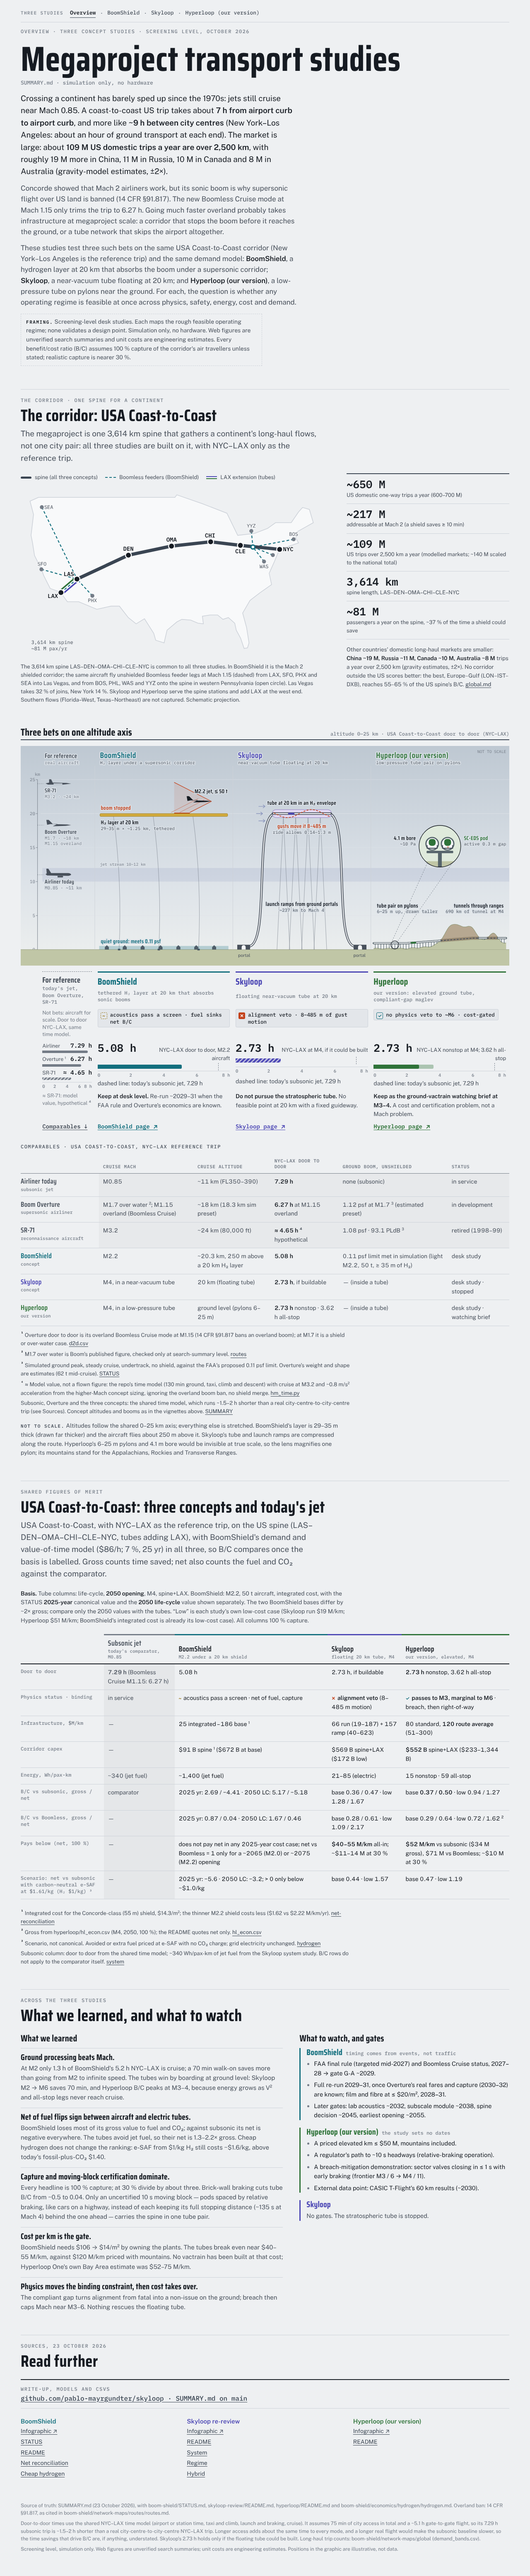
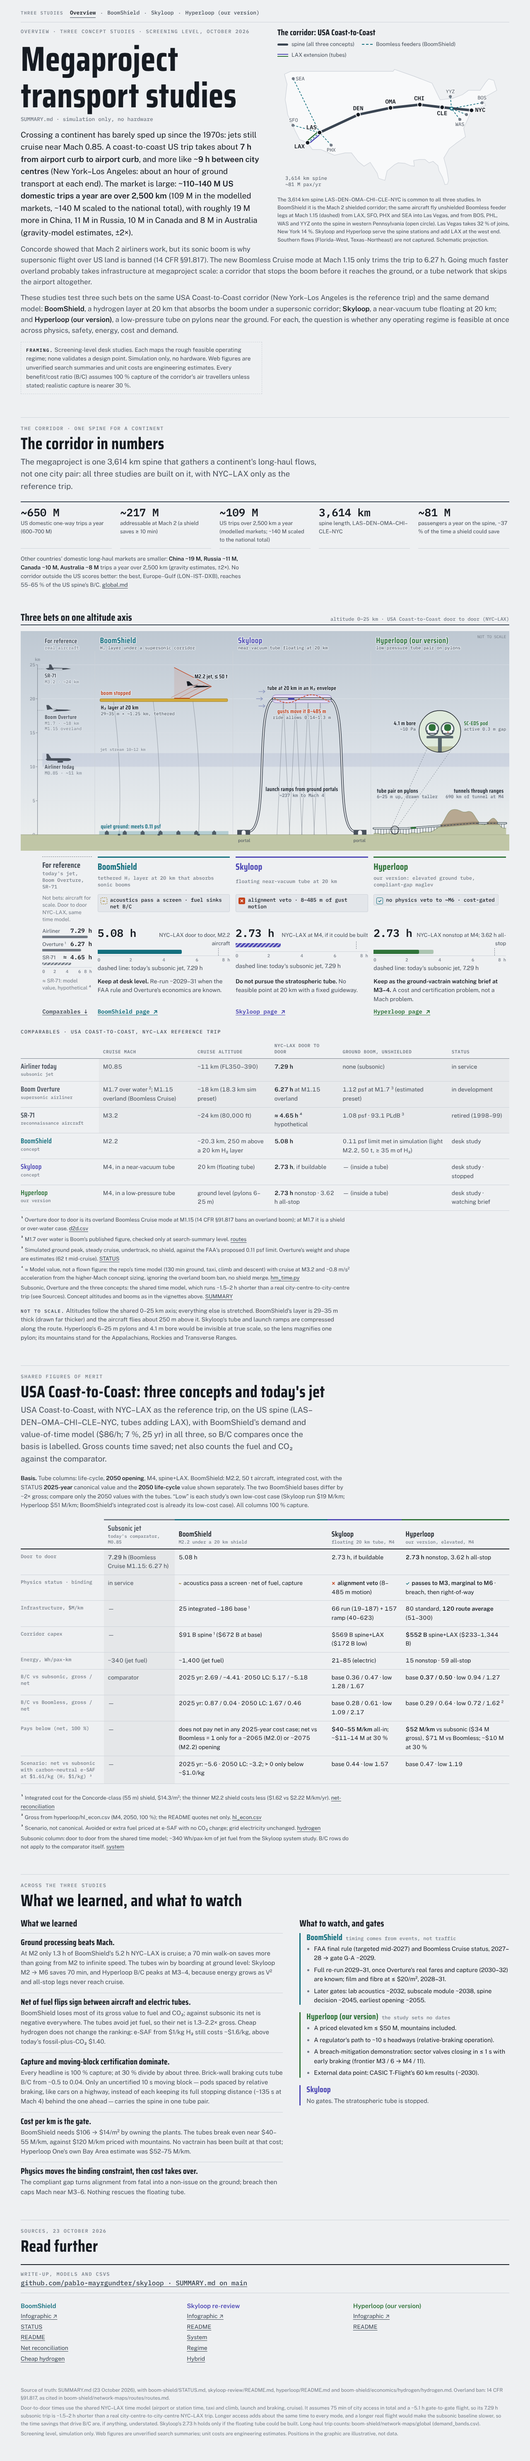
Overview: float corridor map top-right with intro text wrapping it
Claude-Session: https://claude.ai/code/session_01RbnYLXCK3HPi4Bm69kAxad

Changed region(s): [[0.0312, 0.0, 0.9688, 0.9968], [0.5625, 0.7788, 0.9375, 0.8722], [0.7812, 0.1869, 0.875, 0.2181]]

diff --git a/overview/index.html b/overview/index.html
@@ -66,14 +66,21 @@ section{display:grid;gap:22px;min-width:0}
 .family a[aria-current="page"]{color:var(--ink);font-weight:600;border-color:var(--acc)}
 .family .lab{letter-spacing:.12em;text-transform:uppercase;font-size:11px;margin-right:6px}
 /* header */
-header.top{display:grid;gap:14px}
+header.top{display:block}
+header.top>*+*{margin-top:14px}
+header.top::after{content:"";display:block;clear:both}
+.corr-float{float:right;width:min(48%,560px);margin:14px 0 18px 36px;display:grid;gap:8px}
+header.top>.corr-float{margin-top:14px}
+.corr-float h3{font-size:20px}
+.corr-float figcaption{font-size:12.5px;color:var(--ink-2)}
 .title-row{display:flex;flex-wrap:wrap;align-items:baseline;gap:6px 20px}
 .title-row .reg{font:500 13px/1.3 var(--f-mono);color:var(--ink-3)}
-.intro{display:grid;gap:12px;max-width:68ch}
+.intro{display:block}
+.intro p+p{margin-top:12px}
 .intro p{font-size:17px;color:var(--ink-2);max-width:none}
 .intro p:first-child{font-size:19px;color:var(--ink)}
 .intro b{color:var(--ink);font-weight:600}
-.frame{font-size:14px;color:var(--ink-2);border:1px dashed var(--rule);padding:8px 12px;max-width:68ch}
+.frame{display:flow-root;font-size:14px;color:var(--ink-2);border:1px dashed var(--rule);padding:8px 12px;max-width:68ch}
 .frame .stamp{color:var(--ink)}
 /* hero */
 .hero{display:grid;gap:14px}
@@ -173,7 +180,7 @@ table.cmp tr.scen th,table.cmp tr.scen td{border-top:1px dashed var(--rule)}
 .links a{word-break:break-word}
 footer{font-size:12px;color:var(--ink-3);display:grid;gap:6px}
 /* corridor map (ported from the BoomShield page's "spine and its feeders") */
-.corridor{display:grid;grid-template-columns:minmax(0,1.9fr) minmax(0,1fr);gap:22px 40px;align-items:start}
+.corridor{display:grid;gap:14px}
 .corridor figure{margin:0;min-width:0;display:grid;gap:10px}
 .corridor figcaption{font-size:13px;color:var(--ink-2);max-width:92ch}
 .legend{display:flex;flex-wrap:wrap;gap:6px 18px;font-size:13px;color:var(--ink-2)}
@@ -182,7 +189,7 @@ footer{font-size:12px;color:var(--ink-3);display:grid;gap:6px}
 .legend .lg-spine{height:5px;border-radius:3px;background:var(--acc)}
 .legend .lg-feed{height:0;border-top:2px dashed var(--bs)}
 .legend .lg-ext{height:7px;border-top:2px solid var(--sk);border-bottom:2px solid var(--hl)}
-.cstats{display:grid;grid-template-columns:minmax(0,1fr);border-top:2px solid var(--acc)}
+.cstats{display:grid;grid-template-columns:repeat(5,minmax(0,1fr));column-gap:20px;border-top:2px solid var(--acc)}
 .cstats div{display:grid;gap:2px;align-content:start;padding:10px 0;border-bottom:1px solid var(--rule);min-width:0}
 .cstats b{font:600 26px/1.1 var(--f-mono);font-variant-numeric:tabular-nums;white-space:nowrap}
 .cstats span{font-size:13px;color:var(--ink-2)}
@@ -209,7 +216,10 @@ svg .td{font-family:var(--f-display);font-weight:600;letter-spacing:.03em}
 /* responsive */
 @media (max-width:900px){
   .two{grid-template-columns:minmax(0,1fr)}
-  .corridor{grid-template-columns:minmax(0,1fr)}
+  header.top{display:flex;flex-direction:column;gap:14px}
+  header.top>*+*{margin-top:0}
+  .corr-float{float:none;width:auto;margin:4px 0 6px;order:5}
+  header.top>.frame{order:6}
   .cstats{grid-template-columns:repeat(2,minmax(0,1fr));column-gap:16px}
   .cstats div:last-child:nth-child(odd){grid-column:1 / -1}
   .links{grid-template-columns:minmax(0,1fr)}
@@ -242,6 +252,12 @@ svg .td{font-family:var(--f-display);font-weight:600;letter-spacing:.03em}
 
 <header class="top">
   <nav class="family" aria-label="Related pages"><span class="lab">Three studies</span><a href="#overview" aria-current="page">Overview</a><span aria-hidden="true">·</span><a href="https://claude.ai/artifact/1GASTWSYperFtVLyLY29VJ" target="_blank" rel="noopener">BoomShield</a><span aria-hidden="true">·</span><a href="https://claude.ai/artifact/Rvmp18jJLdP7pAPWvuiHHK" target="_blank" rel="noopener">Skyloop</a><span aria-hidden="true">·</span><a href="https://claude.ai/artifact/QbRskhNLJEzpye6SzGC3fB" target="_blank" rel="noopener">Hyperloop (our version)</a></nav>
+  <figure class="corr-float" aria-labelledby="corr-fig-h">
+    <h3 id="corr-fig-h" data-k="corridor.title"></h3>
+    <div class="legend" id="corr-legend"></div>
+    <div id="spine-map"></div>
+    <figcaption data-k="corridor.mapCaption"></figcaption>
+  </figure>
   <div class="eyebrow" id="overview">Overview · three concept studies · <span data-k="meta.status"></span></div>
   <div class="title-row">
     <h1>Megaproject transport studies</h1>
@@ -254,15 +270,10 @@ svg .td{font-family:var(--f-display);font-weight:600;letter-spacing:.03em}
 <section aria-labelledby="corr-h">
   <div class="sec-head">
     <div class="eyebrow" data-k="corridor.eyebrow"></div>
-    <h2 id="corr-h" data-k="corridor.title"></h2>
+    <h2 id="corr-h">The corridor in numbers</h2>
     <p class="lede" data-k="corridor.lede"></p>
   </div>
   <div class="corridor">
-    <figure>
-      <div class="legend" id="corr-legend"></div>
-      <div id="spine-map"></div>
-      <figcaption data-k="corridor.mapCaption"></figcaption>
-    </figure>
     <div class="cside">
       <div class="cstats" id="corr-stats"></div>
       <p class="cworld" id="corr-world"></p>

diff --git a/site/index.html b/site/index.html
@@ -71,14 +71,21 @@ section{display:grid;gap:22px;min-width:0}
 .family a[aria-current="page"]{color:var(--ink);font-weight:600;border-color:var(--acc)}
 .family .lab{letter-spacing:.12em;text-transform:uppercase;font-size:11px;margin-right:6px}
 /* header */
-header.top{display:grid;gap:14px}
+header.top{display:block}
+header.top>*+*{margin-top:14px}
+header.top::after{content:"";display:block;clear:both}
+.corr-float{float:right;width:min(48%,560px);margin:14px 0 18px 36px;display:grid;gap:8px}
+header.top>.corr-float{margin-top:14px}
+.corr-float h3{font-size:20px}
+.corr-float figcaption{font-size:12.5px;color:var(--ink-2)}
 .title-row{display:flex;flex-wrap:wrap;align-items:baseline;gap:6px 20px}
 .title-row .reg{font:500 13px/1.3 var(--f-mono);color:var(--ink-3)}
-.intro{display:grid;gap:12px;max-width:68ch}
+.intro{display:block}
+.intro p+p{margin-top:12px}
 .intro p{font-size:17px;color:var(--ink-2);max-width:none}
 .intro p:first-child{font-size:19px;color:var(--ink)}
 .intro b{color:var(--ink);font-weight:600}
-.frame{font-size:14px;color:var(--ink-2);border:1px dashed var(--rule);padding:8px 12px;max-width:68ch}
+.frame{display:flow-root;font-size:14px;color:var(--ink-2);border:1px dashed var(--rule);padding:8px 12px;max-width:68ch}
 .frame .stamp{color:var(--ink)}
 /* hero */
 .hero{display:grid;gap:14px}
@@ -178,7 +185,7 @@ table.cmp tr.scen th,table.cmp tr.scen td{border-top:1px dashed var(--rule)}
 .links a{word-break:break-word}
 footer{font-size:12px;color:var(--ink-3);display:grid;gap:6px}
 /* corridor map (ported from the BoomShield page's "spine and its feeders") */
-.corridor{display:grid;grid-template-columns:minmax(0,1.9fr) minmax(0,1fr);gap:22px 40px;align-items:start}
+.corridor{display:grid;gap:14px}
 .corridor figure{margin:0;min-width:0;display:grid;gap:10px}
 .corridor figcaption{font-size:13px;color:var(--ink-2);max-width:92ch}
 .legend{display:flex;flex-wrap:wrap;gap:6px 18px;font-size:13px;color:var(--ink-2)}
@@ -187,7 +194,7 @@ footer{font-size:12px;color:var(--ink-3);display:grid;gap:6px}
 .legend .lg-spine{height:5px;border-radius:3px;background:var(--acc)}
 .legend .lg-feed{height:0;border-top:2px dashed var(--bs)}
 .legend .lg-ext{height:7px;border-top:2px solid var(--sk);border-bottom:2px solid var(--hl)}
-.cstats{display:grid;grid-template-columns:minmax(0,1fr);border-top:2px solid var(--acc)}
+.cstats{display:grid;grid-template-columns:repeat(5,minmax(0,1fr));column-gap:20px;border-top:2px solid var(--acc)}
 .cstats div{display:grid;gap:2px;align-content:start;padding:10px 0;border-bottom:1px solid var(--rule);min-width:0}
 .cstats b{font:600 26px/1.1 var(--f-mono);font-variant-numeric:tabular-nums;white-space:nowrap}
 .cstats span{font-size:13px;color:var(--ink-2)}
@@ -214,7 +221,10 @@ svg .td{font-family:var(--f-display);font-weight:600;letter-spacing:.03em}
 /* responsive */
 @media (max-width:900px){
   .two{grid-template-columns:minmax(0,1fr)}
-  .corridor{grid-template-columns:minmax(0,1fr)}
+  header.top{display:flex;flex-direction:column;gap:14px}
+  header.top>*+*{margin-top:0}
+  .corr-float{float:none;width:auto;margin:4px 0 6px;order:5}
+  header.top>.frame{order:6}
   .cstats{grid-template-columns:repeat(2,minmax(0,1fr));column-gap:16px}
   .cstats div:last-child:nth-child(odd){grid-column:1 / -1}
   .links{grid-template-columns:minmax(0,1fr)}
@@ -248,6 +258,12 @@ svg .td{font-family:var(--f-display);font-weight:600;letter-spacing:.03em}
 
 <header class="top">
   <nav class="family" aria-label="Related pages"><span class="lab">Three studies</span><a href="#overview" aria-current="page">Overview</a><span aria-hidden="true">·</span><a href="boomshield.html">BoomShield</a><span aria-hidden="true">·</span><a href="skyloop.html">Skyloop</a><span aria-hidden="true">·</span><a href="hyperloop.html">Hyperloop (our version)</a></nav>
+  <figure class="corr-float" aria-labelledby="corr-fig-h">
+    <h3 id="corr-fig-h" data-k="corridor.title"></h3>
+    <div class="legend" id="corr-legend"></div>
+    <div id="spine-map"></div>
+    <figcaption data-k="corridor.mapCaption"></figcaption>
+  </figure>
   <div class="eyebrow" id="overview">Overview · three concept studies · <span data-k="meta.status"></span></div>
   <div class="title-row">
     <h1>Megaproject transport studies</h1>
@@ -260,15 +276,10 @@ svg .td{font-family:var(--f-display);font-weight:600;letter-spacing:.03em}
 <section aria-labelledby="corr-h">
   <div class="sec-head">
     <div class="eyebrow" data-k="corridor.eyebrow"></div>
-    <h2 id="corr-h" data-k="corridor.title"></h2>
+    <h2 id="corr-h">The corridor in numbers</h2>
     <p class="lede" data-k="corridor.lede"></p>
   </div>
   <div class="corridor">
-    <figure>
-      <div class="legend" id="corr-legend"></div>
-      <div id="spine-map"></div>
-      <figcaption data-k="corridor.mapCaption"></figcaption>
-    </figure>
     <div class="cside">
       <div class="cstats" id="corr-stats"></div>
       <p class="cworld" id="corr-world"></p>
